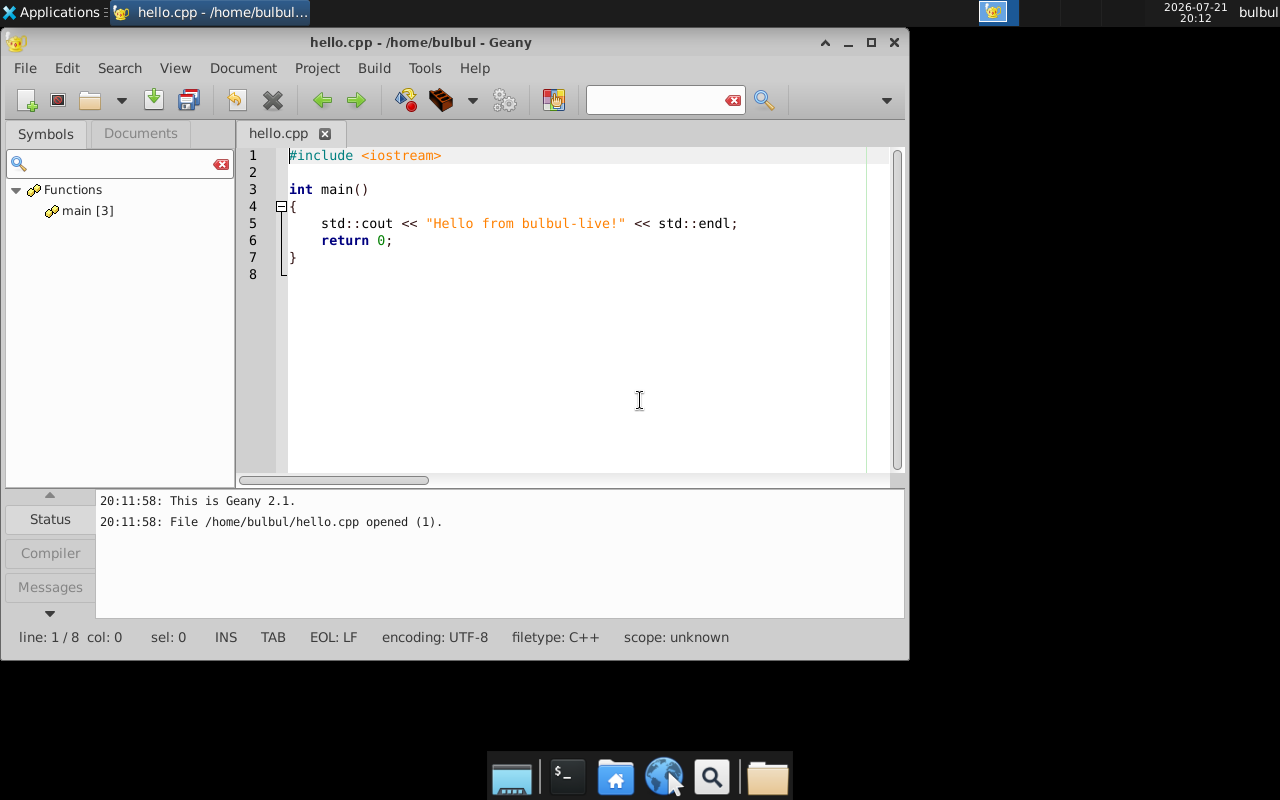
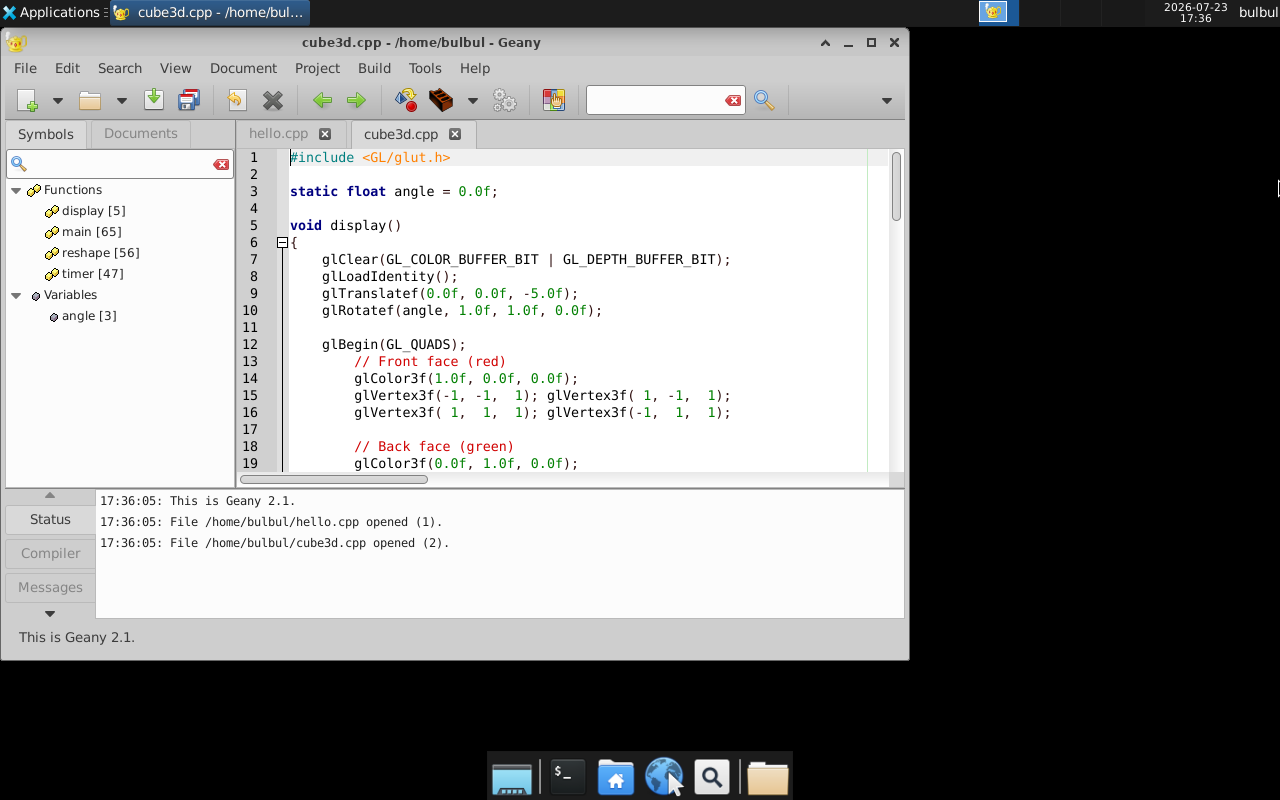
Add OpenGL/GLUT 3D graphics support and rewrite README
Install freeglut3-dev + mesa-utils and ship a rotating-cube demo
(cube3d.cpp) alongside hello.cpp, auto-opened in Geany on first login.
Add a run.sh helper with KVM auto-detection and a serial console socket
for scripted testing. Rewrite README with the new feature, refreshed
screenshots (desktop + rotating cube), and a beginner-friendly quick
start.

Claude-Session: https://claude.ai/code/session_01TAodB8UCkhHnZYQF6NwX1w

diff --git a/README.md b/README.md
@@ -2,21 +2,34 @@
 
 **A zero-install, boot-and-code Linux live environment for developers.**
 
-Bulbul OS is a lightweight Debian/Ubuntu-based **live ISO** built with [`live-build`](https://live-team.pages.debian.net/live-manual/html/live-manual/index.en.html). Boot it from a USB stick or a virtual machine and you get a ready-to-use XFCE desktop with a C/C++ toolchain and a code editor already installed — no setup, no installation, nothing to configure. Shut it down and it leaves no trace on the host machine.
+Bulbul OS is a lightweight Debian/Ubuntu-based **live ISO** built with [`live-build`](https://live-team.pages.debian.net/live-manual/html/live-manual/index.en.html). Boot it from a USB stick or a virtual machine and you land straight on a ready-to-use XFCE desktop with a full C/C++ toolchain, an OpenGL/GLUT 3D graphics stack, and a code editor already installed — no setup, no installation, nothing to configure. Shut it down and it leaves no trace on the host machine.
+
+Think of it as a **portable, disposable dev box**: plug in a USB drive (or boot a VM), start coding or experimenting with graphics programming in seconds, and walk away with the host system exactly as you found it.
 
 ![build-system](https://img.shields.io/badge/built%20with-live--build-1f6feb?style=flat-square)
 ![base](https://img.shields.io/badge/base-Ubuntu%20%22resolute%22%2026.04-E95420?style=flat-square&logo=ubuntu&logoColor=white)
 ![desktop](https://img.shields.io/badge/desktop-XFCE4-3a3a3a?style=flat-square)
+![graphics](https://img.shields.io/badge/graphics-OpenGL%20%2F%20GLUT-5c2d91?style=flat-square)
 ![arch](https://img.shields.io/badge/arch-amd64-blue?style=flat-square)
 ![status](https://img.shields.io/badge/status-experimental-yellow?style=flat-square)
 
 ---
 
-## 📸 Screenshot
+## 🤔 Why does this exist?
 
-Auto-login straight into a working XFCE desktop, with Geany opened on a sample project on first boot:
+Setting up a Linux box for C/C++ (and graphics) development from scratch — installing a distro, a desktop, a compiler, an editor, OpenGL drivers — is tedious busywork when all you want to do is *write and run some code*. Bulbul OS skips all of that: it's a single ISO that boots directly into a working desktop with everything already wired together, so you can go from "cold boot" to "compiling and rendering a 3D scene" in under a minute.
+
+---
+
+## 📸 Screenshots
+
+**Desktop on first boot** — auto-login straight into XFCE, with Geany opened on sample projects:
 
 ![Bulbul OS Live desktop screenshot](docs/screenshot.png)
+
+**OpenGL/GLUT test** — the bundled `cube3d.cpp` sample, compiled and running live, rendering a rotating, per-face-colored 3D cube:
+
+![Rotating 3D cube OpenGL/GLUT demo](docs/cube3d.png)
 
 ---
 
@@ -25,8 +38,9 @@ Auto-login straight into a working XFCE desktop, with Geany opened on a sample p
 | | |
 |---|---|
 | 🖥️ **XFCE4 desktop** | Fast, lightweight desktop environment (panel, window manager, file manager, desktop icons) |
-| 📝 **Geany editor** | A ready-to-use, syntax-highlighting code editor — opens automatically with a sample `hello.cpp` on first login |
+| 📝 **Geany editor** | A ready-to-use, syntax-highlighting code editor — opens automatically with sample projects on first login |
 | ⚙️ **GCC / G++ toolchain** | `build-essential` is pre-installed, so you can compile C/C++ the moment you boot |
+| 🧊 **OpenGL / GLUT 3D graphics** | `freeglut3-dev` + Mesa are pre-installed — write and run real 3D/OpenGL programs out of the box, no driver hunting. Ships with a rotating-cube demo (`cube3d.cpp`) to prove it works |
 | 🔓 **Passwordless auto-login** | Boots straight to the desktop as user `bulbul` — no login screen to click through |
 | 💻 **Terminal included** | `xfce4-terminal` for anything the GUI doesn't cover |
 | 💽 **Zero install, zero trace** | Runs entirely from RAM/media; nothing is written to the host disk |
@@ -45,7 +59,19 @@ qemu-system-x86_64 -cdrom binary.iso -m 2048 -smp 2
 
 That's it — QEMU boots the ISO and you land on the XFCE desktop automatically.
 
-### Useful flags
+### Or use the bundled `run.sh` helper
+
+This repo ships a ready-made launcher that auto-detects KVM acceleration for you:
+
+```bash
+chmod +x run.sh
+./run.sh                 # boots ./binary.iso
+./run.sh /path/to/other.iso   # or point it at a different ISO
+```
+
+`run.sh` will use `-enable-kvm` automatically if `/dev/kvm` is accessible (near-instant boot), and cleanly falls back to software emulation (TCG) otherwise.
+
+### Useful flags (manual `qemu-system-x86_64` invocation)
 
 | Flag | Purpose |
 |---|---|
@@ -67,7 +93,7 @@ qemu-system-x86_64 -cdrom binary.iso -m 2048 -smp 2 -enable-kvm
 
 ## 🪟 Running from Windows via WSL
 
-If you're on Windows, the easiest path is QEMU running *inside* WSL.
+If you're on Windows, the easiest path is QEMU running *inside* WSL. Total beginner? Follow these steps exactly, in order.
 
 ### 1. Install WSL (if you haven't already)
 
@@ -86,9 +112,25 @@ sudo apt update
 sudo apt install -y qemu-system-x86
 ```
 
-### 3. Get `binary.iso` into your WSL filesystem
+### 3. (Optional but recommended) Enable KVM acceleration
 
-Either build it (see [Building from Source](#-building-from-source)) or copy a pre-built ISO in, e.g.:
+Software emulation works, but hardware acceleration is dramatically faster (a ~40 second boot instead of ~2-3 minutes). Inside WSL:
+
+```bash
+sudo usermod -aG kvm "$USER"
+```
+
+Then fully restart WSL from **PowerShell** (not just close the terminal window):
+
+```powershell
+wsl --terminate Ubuntu
+```
+
+Reopen your WSL terminal — `/dev/kvm` should now be usable, and `run.sh` will pick it up automatically.
+
+### 4. Get `binary.iso` into your WSL filesystem
+
+Either build it yourself (see [Building from Source](#-building-from-source)) or copy a pre-built ISO in, e.g.:
 
 ```bash
 cp /mnt/c/Users/<you>/Downloads/binary.iso ~/bulbul-live/
@@ -97,14 +139,15 @@ cd ~/bulbul-live
 
 > 💡 Keep the ISO on the Linux (`ext4`) side of WSL, not under `/mnt/c/...` — disk I/O is much faster there, which matters a lot for a live ISO.
 
-### 4. Boot it
+### 5. Boot it
 
 ```bash
-qemu-system-x86_64 -cdrom binary.iso -m 2048 -smp 2
+chmod +x run.sh
+./run.sh
 ```
 
 - **Windows 11 (WSLg):** the QEMU window just pops up on your Windows desktop like a normal app — nothing else to configure.
-- **Windows 10 / no WSLg:** run with `-vnc :0` instead, then connect a VNC client (e.g. [TightVNC](https://www.tightvnc.com/), [RealVNC](https://www.realvnc.com/)) from Windows to `localhost:5900`.
+- **Windows 10 / no WSLg:** run plain QEMU with `-vnc :0` instead, then connect a VNC client (e.g. [TightVNC](https://www.tightvnc.com/), [RealVNC](https://www.realvnc.com/)) from Windows to `localhost:5900`.
 
 ```bash
 qemu-system-x86_64 -cdrom binary.iso -m 2048 -smp 2 -vnc :0
@@ -147,6 +190,19 @@ This is intended strictly for a disposable, ephemeral live session — **do not*
 
 ---
 
+## 🧪 Try it yourself: compiling the 3D cube demo
+
+Once booted, open a terminal (or use the Geany tab that's already open on `cube3d.cpp`) and run:
+
+```bash
+g++ ~/cube3d.cpp -o ~/cube3d -lGL -lGLU -lglut
+~/cube3d
+```
+
+You should see a window with a spinning, multi-colored cube — a quick sanity check that the OpenGL/GLUT stack is fully functional.
+
+---
+
 ## 🔨 Building from Source
 
 This repository contains the [`live-build`](https://live-team.pages.debian.net/live-manual/html/live-manual/index.en.html) configuration used to produce `binary.iso` — the ISO itself isn't tracked in git (it's ~1.8 GB of compiled/downloaded packages, not source).
@@ -157,8 +213,8 @@ This repository contains the [`live-build`](https://live-team.pages.debian.net/l
 sudo apt update
 sudo apt install -y live-build
 
-git clone https://github.com/<your-username>/bulbul-live.git
-cd bulbul-live
+git clone https://github.com/ahmetcevdetbulbul/bulbul-live-os.git
+cd bulbul-live-os
 
 sudo lb build
 ```
@@ -183,6 +239,27 @@ sudo lb clean --all
 - **[LightDM](https://github.com/canonical/lightdm)** — display/login manager
 - **[Geany](https://www.geany.org/)** — lightweight IDE/text editor
 - **GCC / G++** (`build-essential`) — C/C++ compiler toolchain
+- **OpenGL / Mesa / FreeGLUT** (`freeglut3-dev`, `mesa-utils`) — 3D graphics programming stack
+
+---
+
+## 🤝 Contributing / Developing
+
+Contributions, bug reports, and suggestions are welcome.
+
+1. **Fork** the repo and create a branch for your change.
+2. Edit the relevant `live-build` config:
+   - `config/package-lists/live.list.chroot` — add/remove packages
+   - `config/hooks/*.chroot` — scripts that run inside the chroot during build (users, auto-login, sample files, autostart entries)
+   - `config/includes.chroot/` — files copied verbatim into the live filesystem
+3. Rebuild and test:
+   ```bash
+   sudo lb clean --binary && sudo lb build
+   ./run.sh
+   ```
+4. Open a **pull request** describing what changed and why. Screenshots/screen recordings of the change in action are always appreciated.
+
+If you're only iterating on hooks/package-lists (not the bootloader or initramfs), you don't need a full `lb clean --all` between attempts — see the comments in `auto/build` and `config/hooks/` for the faster incremental workflow.
 
 ---
 
@@ -206,11 +283,13 @@ bulbul-live/
 ├── auto/                    # live-build's build/clean/config entry-point scripts
 ├── config/
 │   ├── package-lists/       # Package selection (live.list.chroot)
-│   ├── hooks/                # Post-install chroot hooks (users, auto-login, initramfs)
+│   ├── hooks/                # Post-install chroot hooks (users, auto-login, sample code, initramfs)
 │   ├── includes.chroot/      # Files copied verbatim into the live filesystem
 │   └── templates/            # Custom GRUB template, etc.
+├── run.sh                   # QEMU launcher with automatic KVM detection
 └── docs/
-    └── screenshot.png
+    ├── screenshot.png
+    └── cube3d.png
 ```
 
 ---